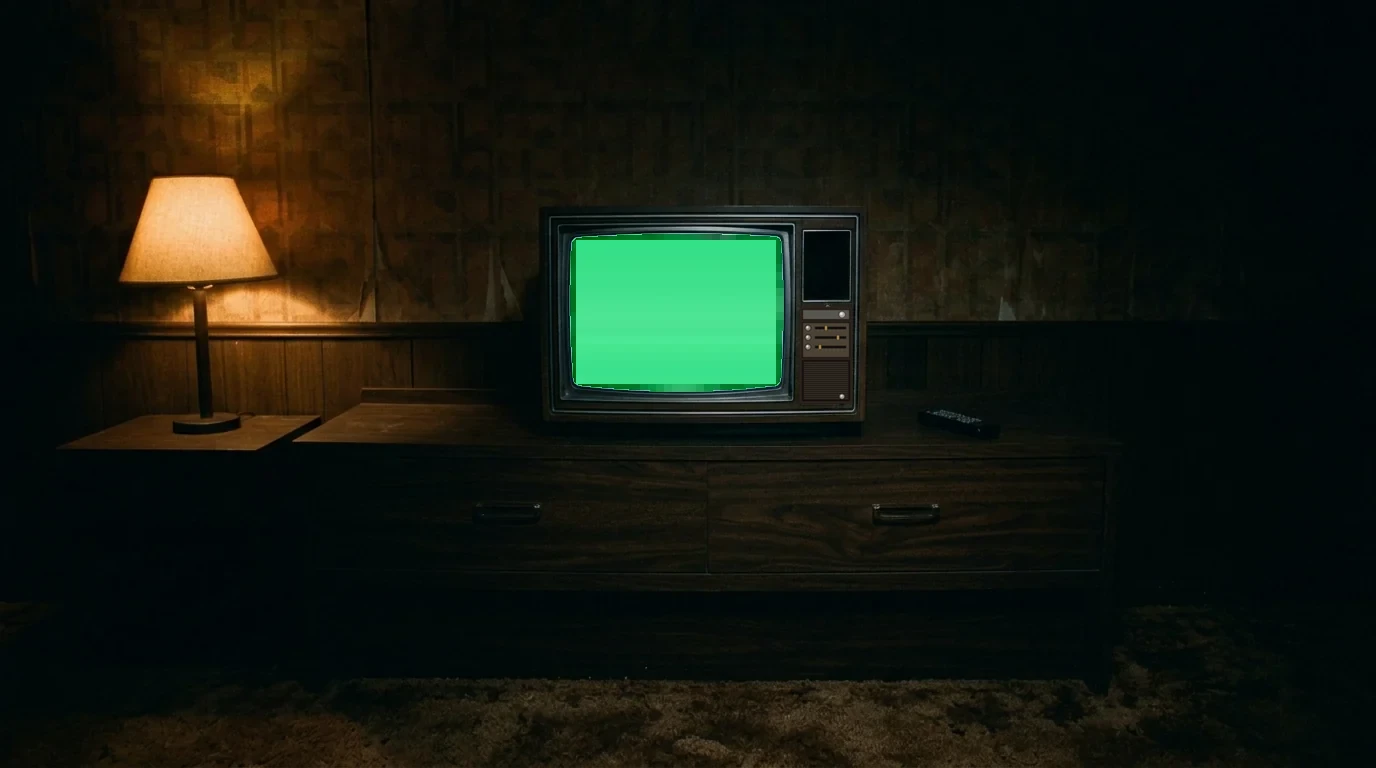
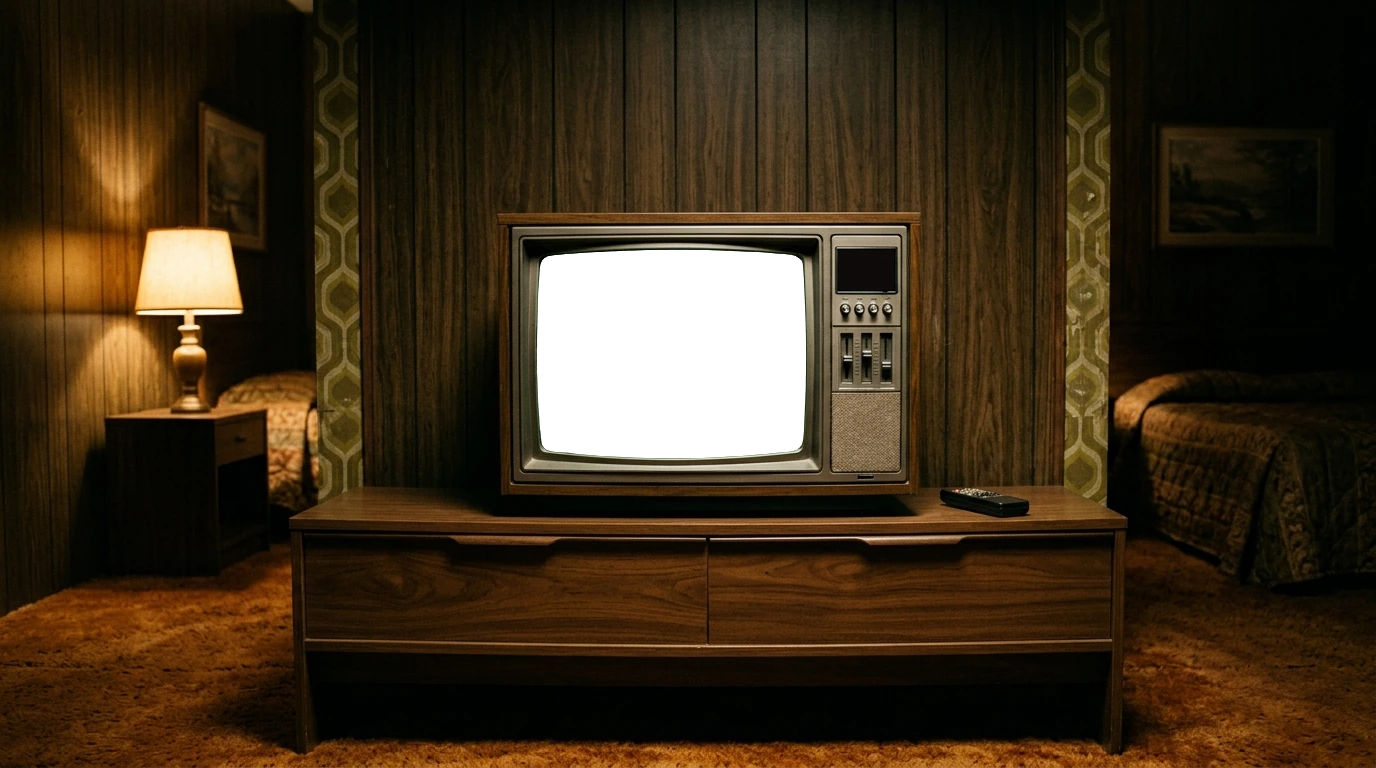
kave/a/tv/chambre.webp: nouvelle photo de la chambre, écran transparent, afficheur vidé ; kave/tv.html: cadrage, écran, afficheur, CH et VOL recalés ; sw.js: clé de cache
Claude-Session: https://claude.ai/code/session_014nJuEKCANHhvLnGK4qv3q1

diff --git a/kave/tv.html b/kave/tv.html
@@ -115,24 +115,25 @@ body.rup:not(.ropen) #remote{filter:brightness(1.05) sepia(.1) drop-shadow(0 -4p
 #remote .ir i.on{background:#f33;box-shadow:0 0 8px #f33}
 @media (max-aspect-ratio:1/1){#room{flex-direction:column}#tvset{padding:5% 5% 18% 5%;aspect-ratio:1.05/1}#ctl{left:5%;right:5%;top:auto;bottom:3%;width:auto;height:12%;flex-direction:row;justify-content:space-between}.knob{width:auto;height:80%}.grille{height:60%;flex:1}}
 
+/* 12 nov. (Mauk Tenieb) : nouvelle photo de la chambre ; l'écran vert devient transparent, le tube passe dessous */
 /* 8 nov. (Mauk Tenieb) : la chambre photographiée d'une seule prise — la télé, la commode et la lampe dans la même lumière ; l'écran vert découpé reçoit les programmes ; la télécommande au premier plan */
 #room{display:block;padding:0;background:#050403;overflow:hidden}
 #tvset{position:absolute;left:var(--sx,0);top:var(--sy,0);width:var(--sw,100vw);height:auto;aspect-ratio:1376/768;background:none;border-radius:0;box-shadow:none;padding:0;margin:0}
 #tvset::before{display:none}
 #tvset::after{content:"";position:absolute;inset:0;background:url(a/tv/chambre.webp) 0 0/100% 100% no-repeat;z-index:5;pointer-events:none}
-#bezel{position:absolute;left:41.352%;top:30.339%;width:15.625%;height:20.703%;padding:0;background:#000;border-radius:0;box-shadow:none}
+#bezel{position:absolute;left:39.099%;top:32.682%;width:19.331%;height:26.693%;padding:0;background:#000;border-radius:0;box-shadow:none;z-index:4}
 #tube{border-radius:0}
 #glass{z-index:29;pointer-events:none;background:url(a/tv/vitre.webp) center/cover no-repeat;mix-blend-mode:screen;opacity:.12;transition:opacity .4s}
 .off #glass{mix-blend-mode:normal;opacity:.9}.off>.layer:not(#glass),.off>#osd,.off>#vol{opacity:0!important}
-#halo{position:absolute;left:22.456%;top:8.203%;width:53.416%;height:75.391%;z-index:6;pointer-events:none;background:radial-gradient(closest-side,var(--glow,rgba(60,90,220,.32)),transparent);mix-blend-mode:screen;opacity:.55;transition:background .8s,opacity .4s}
+#halo{position:absolute;left:24.8%;top:8.6%;width:53.416%;height:75.391%;z-index:6;pointer-events:none;background:radial-gradient(closest-side,var(--glow,rgba(60,90,220,.32)),transparent);mix-blend-mode:screen;opacity:.55;transition:background .8s,opacity .4s}
 .dark #halo{opacity:0}
 #dresser,#ctl .lbl,#ctl .grille,#kpw{display:none}
 #ctl{position:absolute;inset:0;width:auto!important;height:auto!important;display:block!important;z-index:7;pointer-events:none}
 #ctl button{position:absolute;pointer-events:auto;height:auto!important;background:transparent!important;box-shadow:none!important;border:0;padding:0;cursor:pointer;border-radius:30%;width:2.18%;aspect-ratio:1;transform:translate(-50%,-50%)}
 #ctl button::after{display:none}
-#kvol{left:60.03%;top:43.945%;width:3.4%;aspect-ratio:5;border-radius:3px}
-#kch{left:60.03%;top:42.708%;width:3.4%;aspect-ratio:5;border-radius:3px}
-#lcd{position:absolute;left:58.576%;top:30.208%;width:3.052%;height:8.333%;z-index:7;display:flex;align-items:center;justify-content:center;font:700 calc(var(--sw,100vw)*.016) "VT323",monospace;color:#ff3a1e;text-shadow:0 0 6px #ff2a10;opacity:.85;cursor:pointer;touch-action:manipulation}
+#kvol{left:63.953%;top:40.234%;width:2.035%;aspect-ratio:2;border-radius:3px}
+#kch{left:61.919%;top:40.234%;width:2.035%;aspect-ratio:2;border-radius:3px}
+#lcd{position:absolute;left:60.756%;top:32.161%;width:4.360%;height:5.859%;z-index:7;display:flex;align-items:center;justify-content:center;font:700 calc(var(--sw,100vw)*.022) "VT323",monospace;color:#ff3a1e;text-shadow:0 0 6px #ff2a10;opacity:.85;cursor:pointer;touch-action:manipulation}
 #lcd:hover{opacity:1;text-shadow:0 0 9px #ff2a10}
 .dark #lcd{opacity:0}
 #remote{position:fixed;right:2.5vw;bottom:-2vh;z-index:20;display:block;width:min(clamp(84px,10vmin,124px),calc(70vh * .2587));aspect-ratio:0.2587;padding:0;background:url(a/tv/telecommande.webp) 0 0/100% 100% no-repeat;border-radius:0;box-shadow:none;filter:brightness(.62) sepia(.25) drop-shadow(-8px 10px 14px rgba(0,0,0,.75));transform:rotate(-7deg)}
@@ -442,20 +443,20 @@ var CL=null,WI=null;
 var BAR=52,RC0=.14,RC1=.83,PEEK=48,RE=document.documentElement.style,LY=null,rOpen=false,cOpen=false;
 function phoneish(){return (window.matchMedia&&matchMedia('(pointer:coarse)').matches)||Math.min(innerWidth,innerHeight)<520}
 /* 10 nov., 17 h 41 : l'écran d'abord — toute la largeur au téléphone tenu droit, toute la hauteur libre couché et au bureau ; la photo de la chambre autour ; le meuble prend le reste ; la télécommande se replie en bas */
-/* 10 nov., verdict du lot T : un seul cadrage pour les chaînes et l'AV — la télé photographiée (bois du haut, cadre de métal et tube ; x 540-865, y 207-410 dans la photo) occupe toute la hauteur libre au bureau et couché, toute la largeur au téléphone tenu droit ; la bande de bois du bas glisse sous la barre ; le meuble et la télécommande prennent le reste ; le porte-clé garde sa place */
+/* 10 nov., verdict du lot T : un seul cadrage pour les chaînes et l'AV — la télé photographiée (bois du haut, cadre de métal et tube ; x 498-920, y 212-495 dans la photo, depuis le 12 nov.) occupe toute la hauteur libre au bureau et couché, toute la largeur au téléphone tenu droit ; la bande de bois du bas glisse sous la barre ; le meuble et la télécommande prennent le reste ; le porte-clé garde sa place */
 function mkBox(){var f=document.querySelector('#mk .fob')||document.getElementById('mk'),r=f&&f.getBoundingClientRect();return r&&r.width?{r:r.right,b:r.bottom}:{r:56,b:120}}
 function fit(){var W=1376,H=768,VW=innerWidth,VH=innerHeight,vh0=VH-BAR,portrait=VH>VW,ph=phoneish(),mk=mkBox(),s,tx,ty,cab=null,cf=false,
  up=true,RW=(portrait||ph)?192:120,rx;
- if(portrait){s=VW/325;tx=0;var th=214*s;ty=av?0:Math.round((vh0-PEEK-th)*.45);ty=Math.max(ty,mk.b+4-26*s);
+ if(portrait){s=VW/422;tx=0;var th=290*s;ty=av?0:Math.round((vh0-PEEK-th)*.45);ty=Math.max(ty,mk.b+4-26*s);
   if(av){var ct=Math.round(ty+th+4),chh=vh0-PEEK-ct;if(chh>=200)cab={x:0,y:ct,w:VW,h:chh};else cf=true}rx=Math.round((VW-RW)/2)}
- else{s=vh0/203;var tw=325*s,rest=VW-tw;ty=0;
+ else{s=vh0/283;var tw=422*s,rest=VW-tw;ty=0;
   if(av){tx=Math.max(0,rest-460);tx=Math.max(tx,mk.r+4-28*s);var cw=VW-tx-tw;if(cw>=200)cab={x:Math.round(tx+tw),y:0,w:Math.round(cw),h:vh0-PEEK-4};else cf=true;rx=VW-RW-8}
   else{tx=Math.max(0,Math.min(rest/2,rest-RW-16));tx=Math.max(tx,mk.r+4-28*s);rx=Math.round(Math.min(VW-RW-4,tx+tw+(VW-tx-tw-RW)/2))}}
- CL={s:s,x:tx-540*s,y:ty-207*s};
+ CL={s:s,x:tx-498*s,y:ty-212*s};
  /* 10 nov. (Mauk Tenieb, 21 h 22) : au téléphone debout, la vue de la chambre se centre sur le poste entier, afficheur de chaîne compris */
- WI=frame(Math.max(VW/W,VH/H,Math.min(VW/1100,VH/560)),VW/2,VH/2,portrait?704:605,355,VW,VH);if(WI.s>CL.s)WI=CL;
+ WI=frame(Math.max(VW/W,VH/H,Math.min(VW/1100,VH/560)),VW/2,VH/2,709,370,VW,VH);if(WI.s>CL.s)WI=CL;
  var rm=$('#room').style;rm.right='';rm.bottom='';
- RE.setProperty('--sw',W*CL.s+'px');RE.setProperty('--sx',CL.x+'px');RE.setProperty('--sy',CL.y+'px');RE.setProperty('--tw',215*s+'px');
+ RE.setProperty('--sw',W*CL.s+'px');RE.setProperty('--sx',CL.x+'px');RE.setProperty('--sy',CL.y+'px');RE.setProperty('--tw',266*s+'px');
  MX=null;big=false;document.body.classList.remove('tvmax');
  LY={VW:VW,VH:VH,vh0:vh0,up:up,RW:RW,rx:rx,cab:cab,cf:cf,pk:portrait?Math.round(Math.min(130,Math.max(PEEK,vh0*.15))):ph?72:PEEK};
  document.body.classList.toggle('cabn',!!cab&&cab.w<300);document.body.classList.toggle('cabf',cf);

diff --git a/sw.js b/sw.js
@@ -1,5 +1,5 @@
 /* Insert Koin: pages and code from the network first (the cache only when offline); images, fonts and wasm from the cache, then refreshed */
-const C='borne-202611110940';  // prefix borne- : this worker clears only its own caches, Insert Koin's ik- caches stay
+const C='borne-202611110945';  // prefix borne- : this worker clears only its own caches, Insert Koin's ik- caches stay
 self.addEventListener('install',e=>self.skipWaiting());
 self.addEventListener('activate',e=>e.waitUntil(caches.keys().then(ks=>Promise.all(ks.filter(k=>k!==C&&(k.indexOf('borne-')===0||(k.indexOf('ik-')===0&&k.indexOf('ik-archive')!==0))).map(k=>caches.delete(k)))).then(()=>self.clients.claim())));
 self.addEventListener('fetch',e=>{const u=new URL(e.request.url);if(e.request.method!=='GET'||u.origin!==location.origin||e.request.headers.has('range'))return;  // audio and video read by ranges go to the network (Safari)
